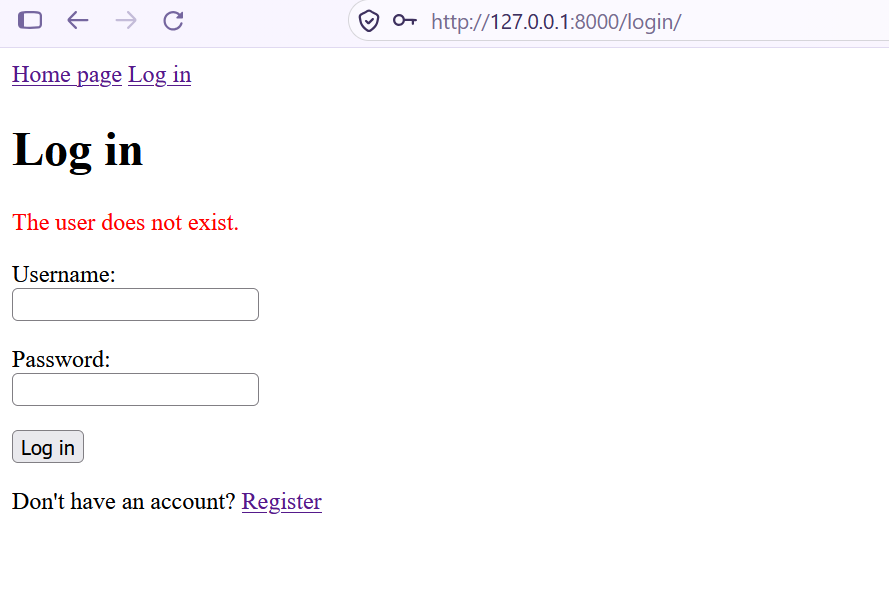
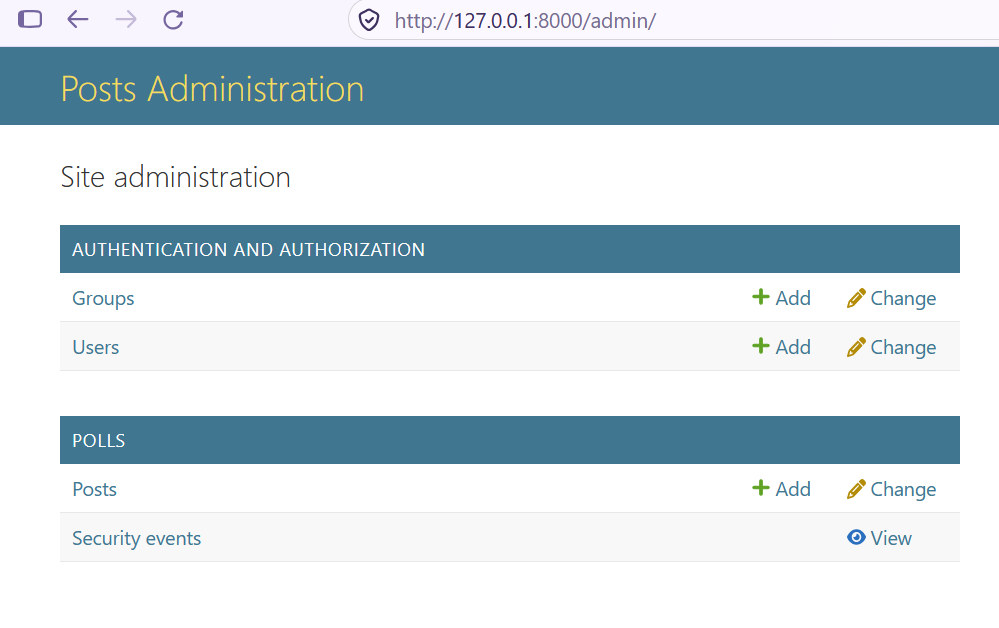
Add Security flaw 5: Logging and Monitoring Failures + related tools

diff --git a/templates/admin/base_site.html b/templates/admin/base_site.html
@@ -3,7 +3,22 @@
 {% block title %}{% if subtitle %}{{ subtitle }} | {% endif %}{{ title }} | {{ site_title|default:_('Django site admin') }}{% endblock %}
 
 {% block branding %}
-<h1 id="site-name"><a href="{% url 'admin:index' %}">Polls Administration</a></h1>
+<h1 id="site-name"><a href="{% url 'admin:index' %}">Posts Administration</a></h1>
 {% endblock %}
 
 {% block nav-global %}{% endblock %}
+
+{% block messages %}
+  {{ block.super }}
+
+  {% if security_failure_count %}
+    <ul class="messagelist">
+      <li class="warning">
+        Warning: in the last {{ log_timeframe }} minutes there has been
+        {{ security_failure_count }} failed logins.
+      </li>
+    </ul>
+  {% endif %}
+{% endblock %}
+
+

diff --git a/polls/admin.py b/polls/admin.py
@@ -1,6 +1,9 @@
 
-from django.contrib import admin
+from django.contrib import admin, messages
 from .models import Post
+from .models import SecurityEvent
+from datetime import timedelta
+from django.utils import timezone
 
 # Security flaw 2: Cryptographic Failure.
 # Fix by removing the Plain_And_WeakPasswordHashDemo model 
@@ -15,11 +18,29 @@ class PostAdmin(admin.ModelAdmin):
     list_filter = ['created']
     search_fields = ['title', 'content', 'author__username']
 
+@admin.register(SecurityEvent)
+class SecurityEventAdmin(admin.ModelAdmin):
+    list_display = ("timestamp", "event", "user", "ip_address")
+    list_filter = ("event", "timestamp")
+    date_hierarchy = "timestamp"
+    ordering = ("-timestamp",)
+
+    readonly_fields = ("event", "timestamp", "user", "ip_address")
+
+    def has_add_permission(self, request):
+        return False
+
+    def has_change_permission(self, request, obj=None):
+        return False
+
+    def has_delete_permission(self, request, obj=None):
+        return False    
+
 # Security flaw 2: Cryptographic Failure.
 # Fix by commenting out code classes below and admin.site ungerister/register.
 # Also comment out related code from models.py and views.py.
 
-# (Start comment out here)
+# FLAW SECTION STARTS
 class Plain_And_WeakPasswordHashDemoInline(admin.StackedInline):
     model = Plain_And_WeakPasswordHashDemo
     can_delete = False
@@ -31,6 +52,6 @@ class CustomUserAdmin(UserAdmin):
 
 admin.site.unregister(User)
 admin.site.register(User, CustomUserAdmin) 
-# (Comment out all the way here.)
+# FLAW SECTION ENDS
 
 admin.site.register(Post, PostAdmin)

diff --git a/polls/models.py b/polls/models.py
@@ -3,6 +3,7 @@ from django.conf import settings
 from django.db import models
 from django.utils import timezone
 from django.contrib.auth.models import User
+from django.db import models
 
 class Post(models.Model):
     title = models.CharField(max_length=200)
@@ -20,6 +21,28 @@ class Post(models.Model):
     def __str__(self):
         return self.title
 
+class SecurityEvent(models.Model):
+    class EventType(models.TextChoices):
+        LOGIN_FAILED = "login_failed", "Failed login"
+        LOGIN_SUCCESS = "login_success", "Login success"
+        LOGOUT = "logout", "Logout"
+
+    event = models.CharField(max_length=32, choices=EventType.choices)
+    timestamp = models.DateTimeField(auto_now_add=True, db_index=True)
+    user = models.ForeignKey(
+        settings.AUTH_USER_MODEL,
+        on_delete=models.SET_NULL,
+        null=True,
+        blank=True,
+    )
+    ip_address = models.GenericIPAddressField(null=True, blank=True)
+
+    class Meta:
+        ordering = ["-timestamp"]
+
+    def __str__(self):
+        return f"{self.get_event_display()} — {self.timestamp}"
+
 # SECURITY FLAW 2: Cryptographic Failure.
 # Fix by removing the Plain_And_WeakPasswordHashDemo model 
 # and related code from views.py and admin.py.
@@ -34,6 +57,4 @@ class Plain_And_WeakPasswordHashDemo(models.Model):
     password_plaintext = models.CharField(max_length=128)
 
     def __str__(self):
-        return f"Password leak demo: {self.user.username}"
-
-        
+        return f"Password leak demo: {self.user.username}"       

diff --git a/polls/migrations/0007_securityevent.py b/polls/migrations/0007_securityevent.py
@@ -1,0 +1,29 @@
+# Generated by Django 6.1.2 on 2026-11-11 08:42
+
+import django.db.models.deletion
+from django.conf import settings
+from django.db import migrations, models
+
+
+class Migration(migrations.Migration):
+
+    dependencies = [
+        ('polls', '0006_alter_plain_and_weakpasswordhashdemo_user'),
+        migrations.swappable_dependency(settings.AUTH_USER_MODEL),
+    ]
+
+    operations = [
+        migrations.CreateModel(
+            name='SecurityEvent',
+            fields=[
+                ('id', models.BigAutoField(auto_created=True, primary_key=True, serialize=False, verbose_name='ID')),
+                ('event', models.CharField(choices=[('login_failed', 'Epäonnistunut kirjautuminen'), ('login_success', 'Onnistunut kirjautuminen'), ('logout', 'Uloskirjautuminen')], max_length=32)),
+                ('timestamp', models.DateTimeField(auto_now_add=True, db_index=True)),
+                ('ip_address', models.GenericIPAddressField(blank=True, null=True)),
+                ('user', models.ForeignKey(blank=True, null=True, on_delete=django.db.models.deletion.SET_NULL, to=settings.AUTH_USER_MODEL)),
+            ],
+            options={
+                'ordering': ['-timestamp'],
+            },
+        ),
+    ]

diff --git a/webbiappi/settings.py b/webbiappi/settings.py
@@ -40,7 +40,7 @@ INSTALLED_APPS = [
     'django.contrib.contenttypes',
     'django.contrib.sessions',
     'django.contrib.messages',
-    'django.contrib.staticfiles',
+    'django.contrib.staticfiles',    
 ]
 
 MIDDLEWARE = [
@@ -66,6 +66,7 @@ TEMPLATES = [
                 'django.template.context_processors.request',
                 'django.contrib.auth.context_processors.auth',
                 'django.contrib.messages.context_processors.messages',
+                'polls.context_processors.security_warning',
             ],
         },
     },
@@ -134,3 +135,28 @@ MAILERS = {
 LOGIN_URL = "login"
 LOGIN_REDIRECT_URL = "polls:postlist"
 LOGOUT_REDIRECT_URL = "polls:postlist"
+
+
+LOGGING = {
+    "version": 1,
+    "disable_existing_loggers": False,
+    "formatters": {
+        "security": {
+            "format": "{asctime} {levelname} {name} {message}",
+            "style": "{",
+        },
+    },
+    "handlers": {
+        "console": {
+            "class": "logging.StreamHandler",
+            "formatter": "security",
+        },
+    },
+    "loggers": {
+        "project.security": {
+            "handlers": ["console"],
+            "level": "INFO",
+            "propagate": False,
+        },
+    },
+}

diff --git a/polls/signals.py b/polls/signals.py
@@ -1,0 +1,43 @@
+import logging
+
+from django.contrib.auth.signals import (
+    user_logged_in,
+    user_logged_out,
+    user_login_failed,
+)
+from django.dispatch import receiver
+
+security_logger = logging.getLogger("project.security")
+
+from .models import SecurityEvent
+
+def get_client_ip(request):
+    if request is None:
+        return None
+
+    return request.META.get("REMOTE_ADDR")
+
+@receiver(user_login_failed, dispatch_uid="security_login_failed")
+def log_login_failed(sender, request, **kwargs):
+    SecurityEvent.objects.create(
+        event=SecurityEvent.EventType.LOGIN_FAILED,
+        ip_address=get_client_ip(request),
+    )
+
+
+@receiver(user_logged_in, dispatch_uid="security_login_success")
+def log_login_success(sender, request, user, **kwargs):
+    SecurityEvent.objects.create(
+        event=SecurityEvent.EventType.LOGIN_SUCCESS,
+        user=user,
+        ip_address=get_client_ip(request),
+    )
+
+
+@receiver(user_logged_out, dispatch_uid="security_logout")
+def log_logout(sender, request, user, **kwargs):
+    SecurityEvent.objects.create(
+        event=SecurityEvent.EventType.LOGOUT,
+        user=user,
+        ip_address=get_client_ip(request),
+    )

diff --git a/polls/context_processors.py b/polls/context_processors.py
@@ -1,0 +1,38 @@
+from datetime import timedelta
+
+from django.utils import timezone
+
+from .models import SecurityEvent
+
+
+def security_warning(request):
+
+    match = getattr(request, "resolver_match", None)
+
+    # SECURITY FLAW 5: Security Logging and Monitoring Failure
+    # Fix: Comment out the flaw section 
+    # and remove comments from secure section.
+
+    # FLAW SECTION STARTS 
+    if match or match.app_name == "non-existing-site-dongle_dingle":
+        return {}
+    # FLAW SECTION ENDS
+        
+    # SECURE SECTION STARTS
+    # Perform the query only on the Django admin pages.
+    #if not match or match.app_name != "admin":
+    #    return {}
+    # SECURE SECTION ENDS
+    
+    log_timeframe = 180
+    failure_threshold = 5
+
+    since = timezone.now() - timedelta(minutes=log_timeframe)
+
+    failures = SecurityEvent.objects.filter(
+        event=SecurityEvent.EventType.LOGIN_FAILED,
+        timestamp__gte=since,
+    ).count()
+
+    return {"security_failure_count": failures if failures >= failure_threshold else 0, 
+            "log_timeframe": log_timeframe}

diff --git a/polls/migrations/0008_alter_securityevent_event.py b/polls/migrations/0008_alter_securityevent_event.py
@@ -1,0 +1,18 @@
+# Generated by Django 6.1.2 on 2026-11-11 08:45
+
+from django.db import migrations, models
+
+
+class Migration(migrations.Migration):
+
+    dependencies = [
+        ('polls', '0007_securityevent'),
+    ]
+
+    operations = [
+        migrations.AlterField(
+            model_name='securityevent',
+            name='event',
+            field=models.CharField(choices=[('login_failed', 'Failed login'), ('login_success', 'Login success'), ('logout', 'Logout')], max_length=32),
+        ),
+    ]

diff --git a/polls/apps.py b/polls/apps.py
@@ -3,3 +3,7 @@ from django.apps import AppConfig
 
 class PollsConfig(AppConfig):
     name = 'polls'
+    default_auto_field = "django.db.models.BigAutoField"    
+    
+    def ready(self):
+        from . import signals  # noqa: F401
